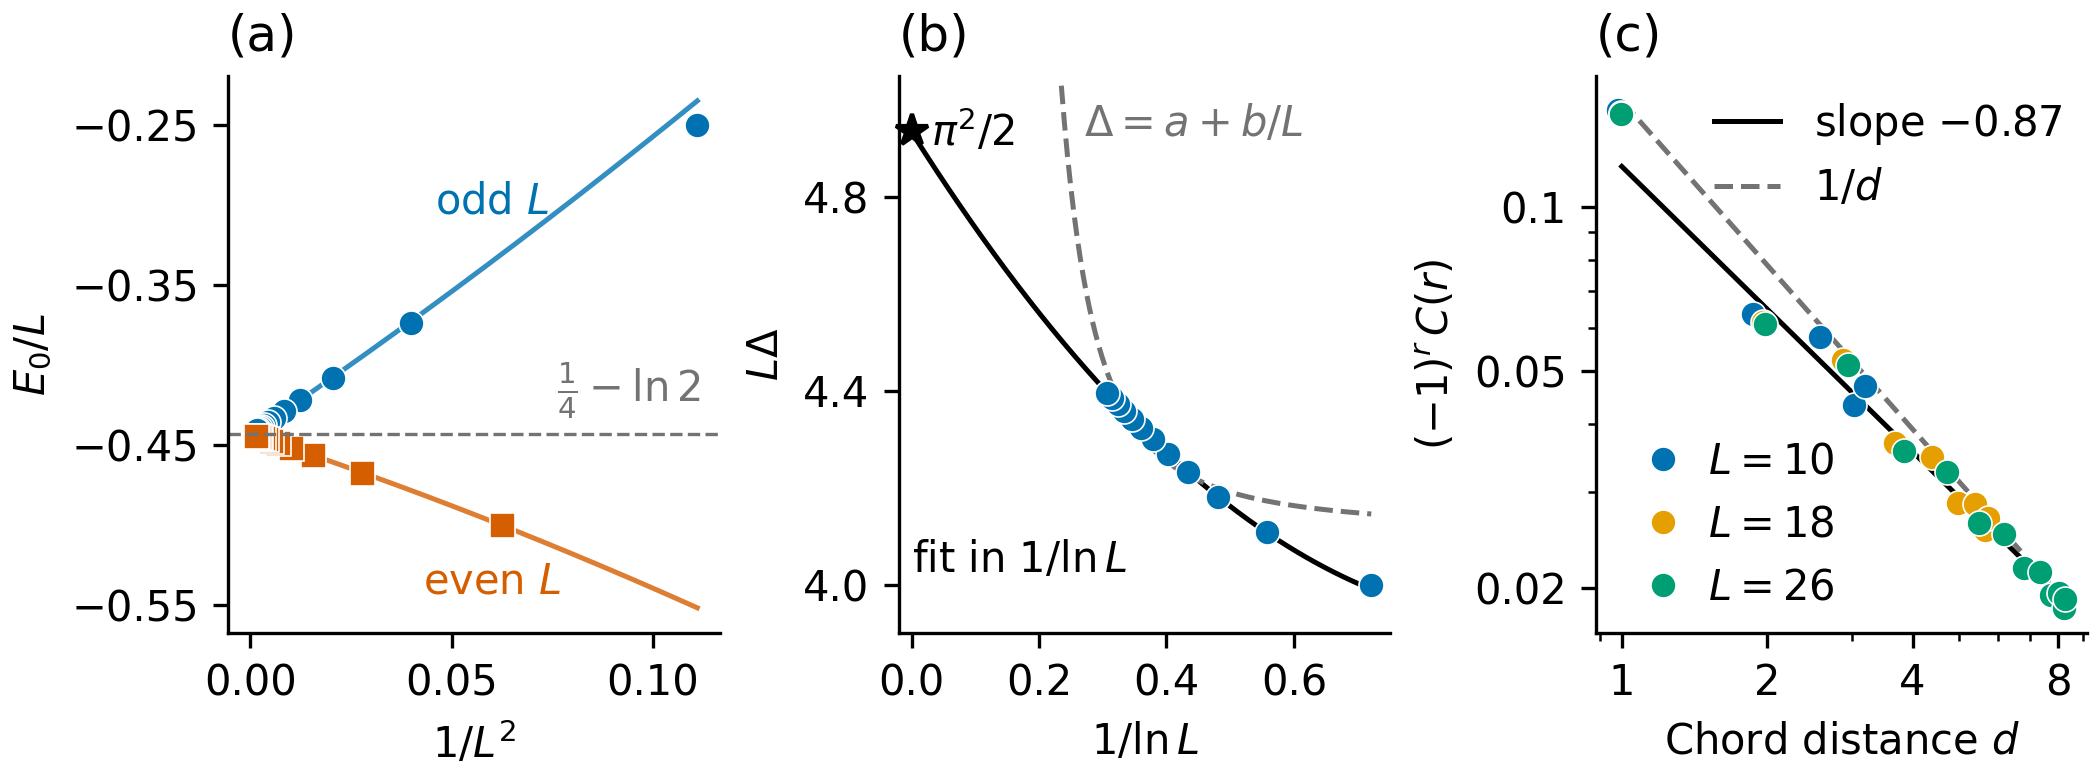
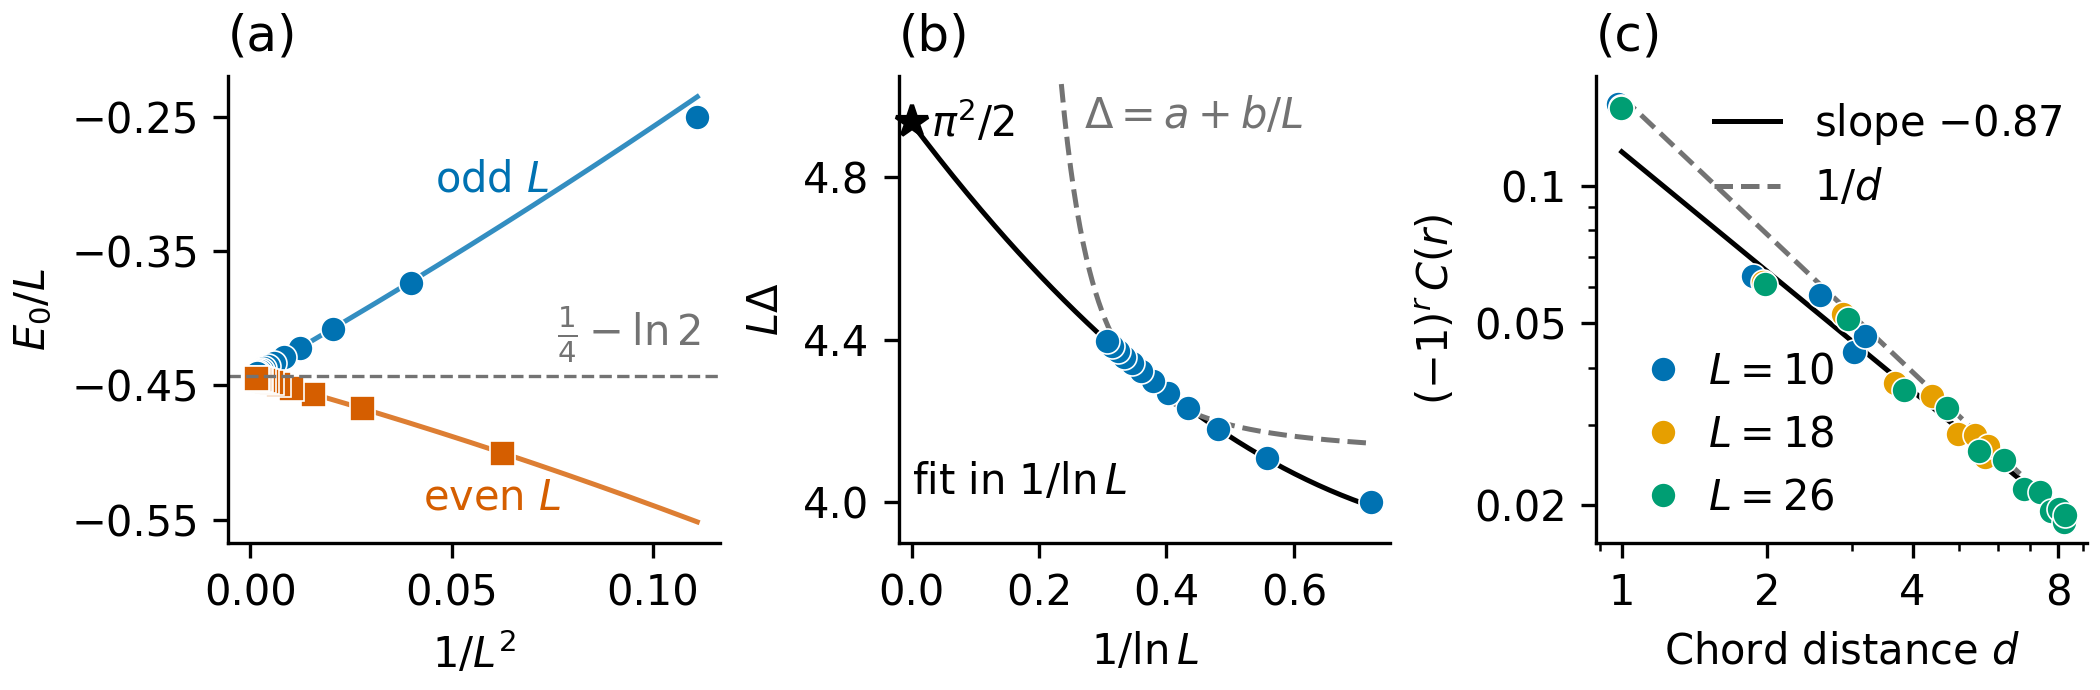
Report figure back to 2.3 in tall to fit the 4-page limit

diff --git a/Heisenberg chain/Report figure.py b/Heisenberg chain/Report figure.py
@@ -30,7 +30,7 @@ L_all = L_all.astype(int)
 data = np.load("heisenberg_even_L.npz")
 sizes, gaps = data["sizes"], data["gaps"]
 
-fig, (ax1, ax2, ax3) = plt.subplots(1, 3, figsize=(7.0, 2.6), constrained_layout=True)
+fig, (ax1, ax2, ax3) = plt.subplots(1, 3, figsize=(7.0, 2.3), constrained_layout=True)
 
 ###############################################################################
 # (a) Energy density against 1/L^2, with fits for L >= 8
